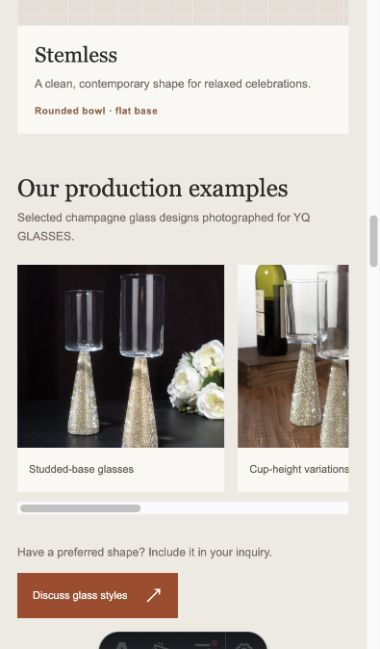
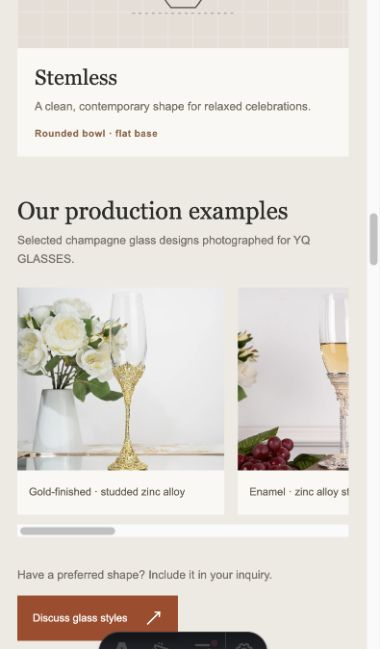
香槟杯

diff --git a/src/styles/global.css b/src/styles/global.css
@@ -83,6 +83,8 @@ h1 em, h2 em { font-style: normal; }
 .feature-copy h2, .section-heading h2, .faq-intro h2, .contact-copy h2 { margin: 0 0 22px; font-size: clamp(42px, 4.1vw, 62px); line-height: 1.12; }
 .feature-copy h2 em, .section-heading h2 em, .faq-intro h2 em { color: var(--copper-dark); }
 .feature-copy > p:not(.eyebrow) { max-width: 510px; color: #625d58; font-size: 15px; line-height: 1.85; }
+.feature-copy > p:not(.eyebrow) a { color: var(--copper-dark); font-weight: 700; text-decoration: underline; text-decoration-thickness: 1px; text-underline-offset: 3px; }
+.feature-copy > p:not(.eyebrow) a:hover { color: var(--copper); }
 .feature-list { display: grid; grid-template-columns: 1fr 1fr; gap: 14px 18px; margin: 30px 0 34px; }
 .feature-list span { position: relative; padding-left: 15px; color: #554941; font-size: 12px; font-weight: 700; line-height: 1.5; }
 .feature-list span::before { content: ''; position: absolute; left: 0; top: .53em; width: 5px; height: 5px; border-radius: 50%; background: var(--copper); }

diff --git a/src/styles/champagne-glasses.css b/src/styles/champagne-glasses.css
@@ -28,7 +28,7 @@
 .cg-case-heading { display: flex; align-items: baseline; justify-content: space-between; gap: 25px; margin: 55px 0 20px; }
 .cg-case-heading h3 { margin: 0; font-size: clamp(25px, 2.5vw, 34px); }
 .cg-case-heading p { max-width: 420px; margin: 0; color: #766e64; font-size: 12px; line-height: 1.6; }
-.cg-case-row { display: grid; grid-template-columns: repeat(4, minmax(0, 1fr)); gap: 17px; }
+.cg-case-row { display: grid; grid-template-columns: repeat(5, minmax(0, 1fr)); gap: 17px; }
 .cg-case-row figure { min-width: 0; margin: 0; background: #faf8f4; }
 .cg-case-row img { width: 100%; height: 225px; object-fit: cover; }
 .cg-case-row figcaption { min-height: 46px; padding: 14px 12px; color: #655c52; font-size: 11px; line-height: 1.5; }

diff --git a/knowledge-base/assets/champagne-glasses/production-cases/README.md b/knowledge-base/assets/champagne-glasses/production-cases/README.md
@@ -1,0 +1,26 @@
+---
+id: KB-ASSET-014
+title: 五款香槟杯生产案例图
+category: image-assets
+updated: 2026-10-24
+source_type: 用户提供的五张产品照片及材质工艺说明
+review_status: 已核对原图映射、杯款描述、WebP 尺寸与文件大小
+tags:
+  - champagne glasses
+  - production examples
+  - stem designs
+---
+
+# 香槟杯生产案例图片
+
+五张原始 JPEG 保留在 `TP图片/饮具/美工图片/红酒香槟杯/香槟/` 各来源文件夹。本目录保存供网站选用的 WebP；同名文件已复制到 `public/images/champagne-glasses/` 用于[定制香槟杯页面](../../../../src/pages/personalized-champagne-glasses/index.astro)。每张导出图均为 **600 × 600 px**，**小于 40,000 字节**，保留原画面与产品外观。材质和工艺按[产品记录](../../../products/champagne-glass-production-cases.md)逐款使用。
+
+| 素材文件 | 来源型号及原图 | 用户确认的工艺 | 大小 | 英文 alt 文本 |
+|---|---|---|---:|---|
+| [oh41013c-gold-studded-zinc-alloy-stem.webp](oh41013c-gold-studded-zinc-alloy-stem.webp) | `oh41013C/未标题-1_0000_DSC04540.jpg` | 锌合金杯杆、点钻、金色工艺 | 38,628 B | Champagne flute with a gold-finished zinc alloy stem and studded detailing. |
+| [oh41014-enamel-zinc-alloy-stem.webp](oh41014-enamel-zinc-alloy-stem.webp) | `oh41014/图2_0004_DSC01812.jpg` | 珐琅锌合金杯杆 | 37,138 B | Champagne flute with a decorative enamel zinc alloy stem. |
+| [oh31007-studded-stainless-steel-stem.webp](oh31007-studded-stainless-steel-stem.webp) | `oh31007/2_0011_DSC08101.jpg` | 不锈钢点钻杯杆 | 37,060 B | Pair of champagne flutes with studded stainless steel stems. |
+| [oh13197a-crystal-filled-acrylic-stem.webp](oh13197a-crystal-filled-acrylic-stem.webp) | `oh13197A/1_0009_DSC00528.jpg` | 亚克力管灌钻杯杆，玻璃杯头和底座 | 36,970 B | Two champagne flutes with glass bowls and bases connected by crystal-filled acrylic stems. |
+| [13172-silver-plated-zinc-alloy-stem.webp](13172-silver-plated-zinc-alloy-stem.webp) | `13172/1_0004_DSC01681.jpg` | 锌合金镀银金属杯茎 | 38,738 B | Pair of champagne flutes with silver-plated zinc alloy stems. |
+
+图片为生产案例展示，不代表五款均有现货；供货、定制和包装以具体询盘确认为准。

diff --git a/knowledge-base/products/champagne-glass-production-cases.md b/knowledge-base/products/champagne-glass-production-cases.md
@@ -1,0 +1,28 @@
+---
+id: KB-PRODUCT-005
+title: 五款香槟杯生产案例的材质与杯杆工艺
+category: product-record
+updated: 2026-10-24
+source_type: 用户提供的五张产品图片及直接说明
+review_status: 材质与工艺由用户确认；尺寸、容量、起订量及现货状态未提供
+tags:
+  - champagne flutes
+  - zinc alloy stem
+  - stainless steel stem
+  - acrylic stem
+  - production examples
+---
+
+# 香槟杯生产案例：五种杯杆结构
+
+以下是五款**独立案例**，型号取自原图文件夹。用户确认了各款材质与工艺；不要把某一款的杯杆、杯底或表面处理写成五款共同配置。图片与原文件映射见[案例图素材](../assets/champagne-glasses/production-cases/README.md)。
+
+| 来源型号 | 用户确认的产品信息 | 网站可用英文简述 |
+|---|---|---|
+| OH41013C | 锌合金杯杆，点钻与金色工艺。 | Gold-finished zinc alloy stem with studded detailing. |
+| OH41014 | 珐琅锌合金杯杆。 | Enamel zinc alloy stem. |
+| OH31007 | 不锈钢点钻杯杆。 | Studded stainless steel stem. |
+| OH13197A | 亚克力管灌钻杯杆，玻璃杯头和玻璃底座。 | Crystal-filled acrylic stem with a glass bowl and base. |
+| 13172 | 锌合金镀银金属杯茎。 | Silver-plated zinc alloy stem. |
+
+图片用作已生产款式的外观案例。杯头材质仅在 OH13197A 被明确说明为玻璃；其他款不凭照片推定完整材料构成。未收到尺寸、容量、包装、起订量或库存资料，页面询盘时按具体设计与数量确认。

diff --git a/knowledge-base/assets/README.md b/knowledge-base/assets/README.md
@@ -17,5 +17,6 @@
 | [OH41006 爱心点钻香槟杯](champagne-glasses/oh41006-heart-stem/README.md) | 5 | 玻璃杯头、锌合金杯杆、爱心点钻、去品牌角标尺寸图 | 本素材说明记录原图映射、英文 alt 文本与图示规格 |
 | [OH41101 来源文件夹天鹅点钻香槟杯](champagne-glasses/oh41101-swan-source/README.md) | 9 | 玻璃杯头、金银电镀、点钻天鹅、包装图及去标识尺寸图 | [天鹅香槟杯产品记录](../products/swan-champagne-flutes.md)；尺寸图标 OH13370C，型号关系待核对 |
 | [OH41013R 镂空雕花香槟杯](champagne-glasses/oh41013r-openwork-stem/README.md) | 6 | 玻璃杯头、锌合金镂空雕花杯杆、去标识图片及尺寸图 | [OH41013R 产品记录](../products/oh41013r-openwork-champagne-flute.md) |
+| [五款香槟杯生产案例图](champagne-glasses/production-cases/README.md) | 5 | 金色点钻锌合金、珐琅锌合金、点钻不锈钢、灌钻亚克力、镀银锌合金杯杆 | [五款杯杆产品记录](../products/champagne-glass-production-cases.md) |
 
 使用图片时以各组的来源映射、画面说明和已确认信息为准；不要把不同素材组的材质或规格合并成同一款产品的声明。

diff --git a/knowledge-base/README.md b/knowledge-base/README.md
@@ -27,6 +27,8 @@
 | KB-ASSET-012 | [OH41101 来源文件夹天鹅香槟杯素材](assets/champagne-glasses/oh41101-swan-source/README.md) | 9 张去标识 WebP、原图映射、英文 alt 与 OH13370C 图示参数 | 2026-10-24 |
 | KB-PRODUCT-004 | [OH41013R 镂空雕花杯杆香槟杯](products/oh41013r-openwork-champagne-flute.md) | 用户确认的玻璃杯头与锌合金杯杆、图片标注参数及网站使用边界 | 2026-10-24 |
 | KB-ASSET-013 | [OH41013R 镂空雕花香槟杯素材](assets/champagne-glasses/oh41013r-openwork-stem/README.md) | 6 张去标识 WebP、原图映射、英文 alt 与尺寸图标注 | 2026-10-24 |
+| KB-PRODUCT-005 | [五款香槟杯生产案例](products/champagne-glass-production-cases.md) | 五个来源型号的杯杆材质和工艺，逐款记录用户确认信息 | 2026-10-24 |
+| KB-ASSET-014 | [五款香槟杯案例图片素材](assets/champagne-glasses/production-cases/README.md) | 5 张 WebP、原图映射、英文 alt 与网站案例用途 | 2026-10-24 |
 
 图片集合入口：[产品图片素材库](assets/README.md)。
 
